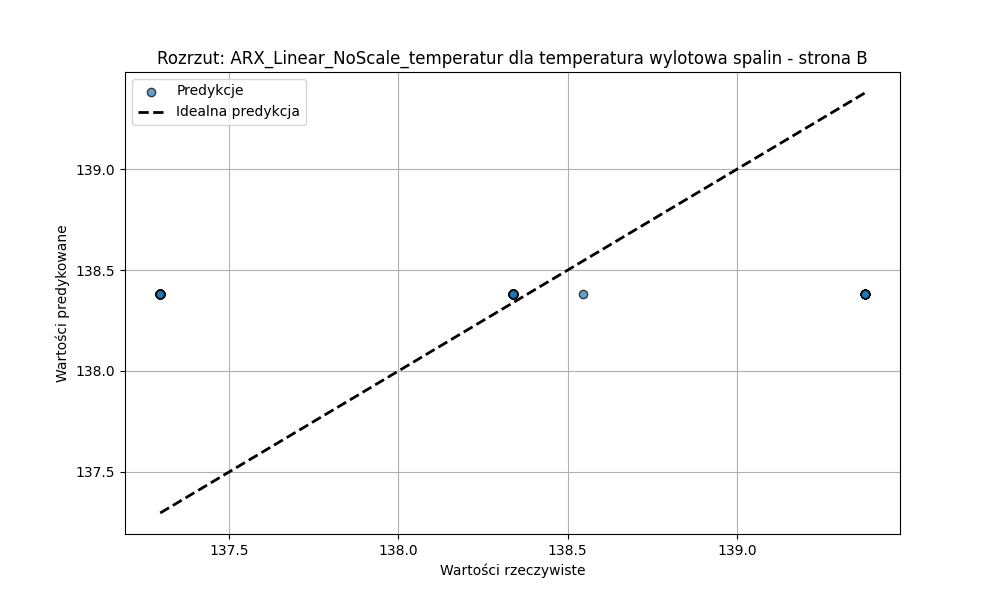
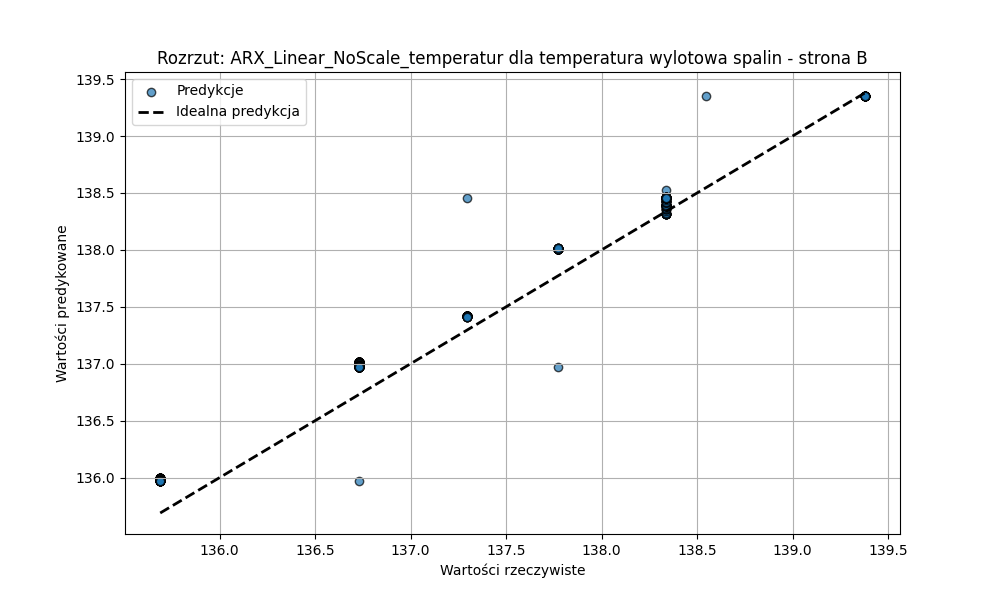
WORKS

diff --git a/src/main.py b/src/main.py
@@ -1,5 +1,6 @@
 import os
 import pandas as pd
+import numpy as np # Upewnij się, że ten import jest na górze pliku
 from data_load.data_loader import load_excel_data 
 from modeling.simple_model import train_evaluate_linear_model, train_evaluate_polynomial_model # Dodano train_evaluate_polynomial_model
 from modeling.advanced_models import train_evaluate_random_forest_model, train_evaluate_gradient_boosting_model, train_evaluate_dynamic_arx_model
@@ -65,25 +66,57 @@ def main():
         print(f"Błąd ładowania danych: {e}")
         return
 
+    # <<< NOWA, KLUCZOWA SEKCJA: CZYSZCZENIE DANYCH >>>
+    print("\n--- Rozpoczęcie czyszczenia danych ---")
+    cleaned_sheets_data = {}
+    for sheet_name, df in all_sheets_data.items():
+        if sheet_name in sheet_names_to_process:
+            print(f"Czyszczenie arkusza: {sheet_name}")
+            df_copy = df.copy()
+            
+            # Krok 1: Zastąp tekst ' Bad Data' wartością NaN, aby można było z nim pracować
+            df_copy.replace(to_replace=r'.*Bad Data.*', value=np.nan, regex=True, inplace=True)
+            
+            # Krok 2: Upewnij się, że wszystkie kolumny, które powinny być numeryczne, są numeryczne
+            # Wybieramy wszystkie kolumny oprócz 'Date/Time' do konwersji
+            cols_to_convert = [col for col in df_copy.columns if col != 'Date/Time']
+            for col in cols_to_convert:
+                df_copy[col] = pd.to_numeric(df_copy[col], errors='coerce')
+
+            # Krok 3: Inteligentna imputacja - wypełnianie brakujących danych (NaN)
+            # Używamy forward fill, który propaguje ostatnią poprawną wartość.
+            # To jest standardowe i dobre podejście dla danych procesowych, gdzie wartości
+            # nie zmieniają się gwałtownie z próbki na próbkę.
+            df_copy.ffill(inplace=True)
+            
+            # Krok 4: Na wszelki wypadek, jeśli na samym początku były NaN, używamy back fill
+            df_copy.bfill(inplace=True)
+            
+            cleaned_sheets_data[sheet_name] = df_copy
+            
+    # Zastępujemy słownik z danymi na ten wyczyszczony
+    all_sheets_data = cleaned_sheets_data
+    # <<< KONIEC NOWEJ SEKCJI >>>
+
     data_frames_to_concat = []
     for sheet_name in sheet_names_to_process:
         if sheet_name in all_sheets_data:
-            sheet_df = all_sheets_data[sheet_name].copy()
+            sheet_df = all_sheets_data[sheet_name] # Nie trzeba już .copy()
             
-            # TO JEST KLUCZOWE: Tworzymy tymczasowy identyfikator dnia (sesji) na podstawie nazwy arkusza.
-            # Dzięki temu funkcja `create_arx_data` wie, gdzie jest granica między dniami.
             sheet_df['session_id'] = sheet_name
 
-            # Ujednolicenie kroku próbkowania
             if 'Date/Time' in sheet_df.columns:
                 sheet_df['Date/Time'] = pd.to_datetime(sheet_df['Date/Time'], dayfirst=True)
                 sheet_df.set_index('Date/Time', inplace=True)
+                
+                # Resampling teraz działa na czystych danych
                 numeric_cols = sheet_df.select_dtypes(include='number').columns
                 resampled_numeric = sheet_df[numeric_cols].resample(TARGET_SAMPLING_PERIOD).mean()
                 resampled_session = sheet_df[['session_id']].resample(TARGET_SAMPLING_PERIOD).first().ffill()
                 sheet_df = pd.concat([resampled_numeric, resampled_session], axis=1).reset_index()
             
             data_frames_to_concat.append(sheet_df)
+
 
     if not data_frames_to_concat:
         print("Nie załadowano danych. Zakończenie.")
